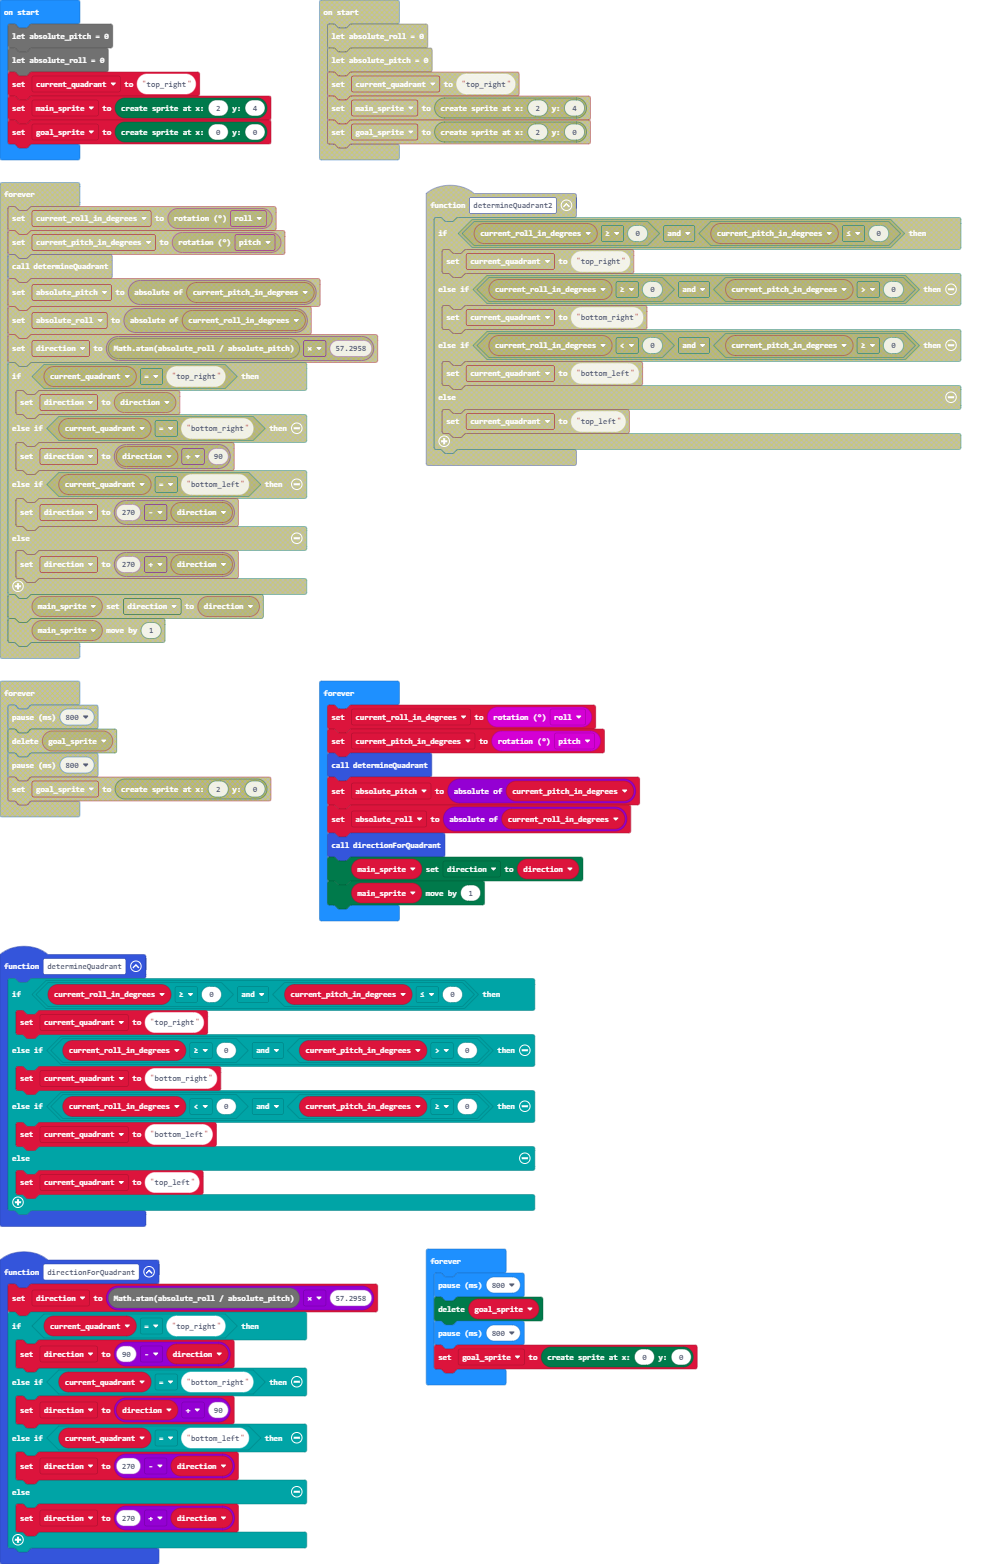
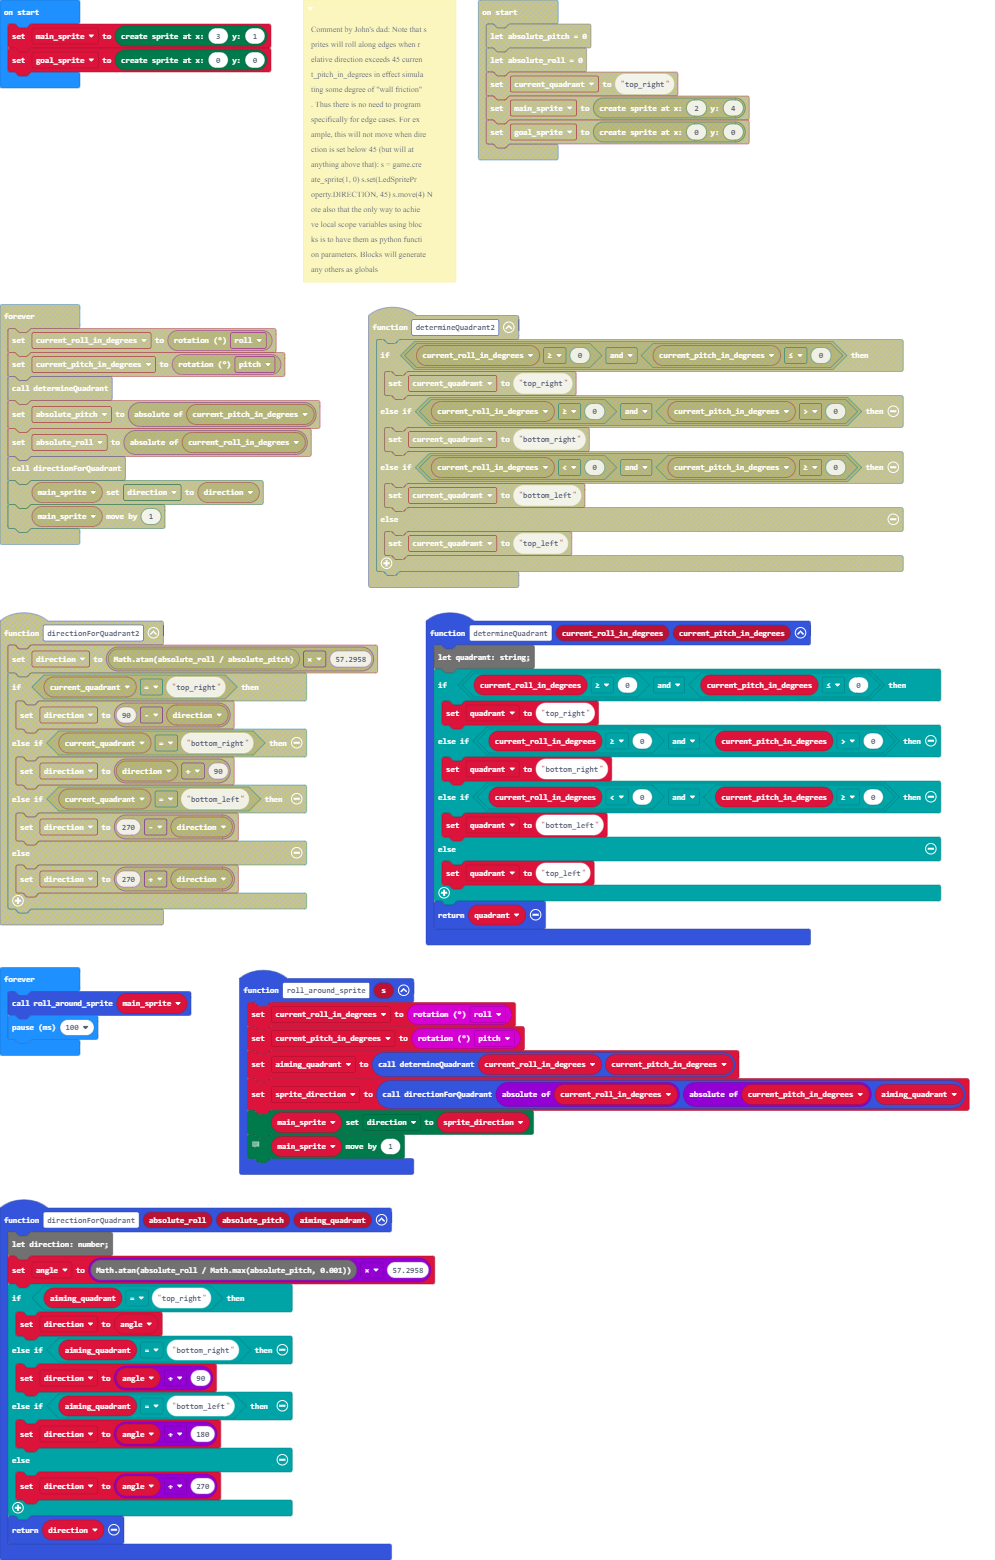
Completed roll functionality (without speed variation)

diff --git a/main.ts b/main.ts
@@ -1,54 +1,65 @@
-function determineQuadrant() {
-    
-    if (current_roll_in_degrees >= 0 && current_pitch_in_degrees <= 0) {
-        current_quadrant = "top_right"
+function determineQuadrant (current_roll_in_degrees: number, current_pitch_in_degrees: number) {
+    let quadrant: string;
+if (current_roll_in_degrees >= 0 && current_pitch_in_degrees <= 0) {
+        quadrant = "top_right"
     } else if (current_roll_in_degrees >= 0 && current_pitch_in_degrees > 0) {
-        current_quadrant = "bottom_right"
+        quadrant = "bottom_right"
     } else if (current_roll_in_degrees < 0 && current_pitch_in_degrees >= 0) {
-        current_quadrant = "bottom_left"
+        quadrant = "bottom_left"
     } else {
-        current_quadrant = "top_left"
+        quadrant = "top_left"
     }
-    
+    return quadrant
 }
-
-function directionForQuadrant() {
-    
-    direction = Math.atan(absolute_roll / absolute_pitch) * 57.2958
-    if (current_quadrant == "top_right") {
-        direction = 90 - direction
-    } else if (current_quadrant == "bottom_right") {
-        direction = direction + 90
-    } else if (current_quadrant == "bottom_left") {
-        direction = 270 - direction
-    } else {
-        direction = 270 + direction
-    }
-    
-}
-
-let direction = 0
-let current_pitch_in_degrees = 0
-let current_roll_in_degrees = 0
-let current_quadrant = ""
-let absolute_pitch = 0
-let absolute_roll = 0
-current_quadrant = "top_right"
-let main_sprite = game.createSprite(2, 4)
-let goal_sprite = game.createSprite(0, 0)
-basic.forever(function on_forever() {
-    
+function roll_around_sprite (s: game.LedSprite) {
     current_roll_in_degrees = input.rotation(Rotation.Roll)
     current_pitch_in_degrees = input.rotation(Rotation.Pitch)
-    determineQuadrant()
-    absolute_pitch = Math.abs(current_pitch_in_degrees)
-    absolute_roll = Math.abs(current_roll_in_degrees)
-    directionForQuadrant()
-    main_sprite.set(LedSpriteProperty.Direction, direction)
+    aiming_quadrant = determineQuadrant(current_roll_in_degrees, current_pitch_in_degrees)
+    sprite_direction = directionForQuadrant(Math.abs(current_roll_in_degrees), Math.abs(current_pitch_in_degrees), aiming_quadrant)
+    main_sprite.set(LedSpriteProperty.Direction, sprite_direction)
+    // basic.pause(100)
     main_sprite.move(1)
+}
+function directionForQuadrant (absolute_roll: number, absolute_pitch: number, aiming_quadrant: string) {
+    let direction: number;
+angle = Math.atan(absolute_roll / Math.max(absolute_pitch, 0.001)) * 57.2958
+    if (aiming_quadrant == "top_right") {
+        direction = angle
+    } else if (aiming_quadrant == "bottom_right") {
+        direction = angle + 90
+    } else if (aiming_quadrant == "bottom_left") {
+        direction = angle + 180
+    } else {
+        direction = angle + 270
+    }
+    return direction
+}
+let angle = 0
+let sprite_direction = 0
+let aiming_quadrant = ""
+let current_pitch_in_degrees = 0
+let current_roll_in_degrees = 0
+let main_sprite: game.LedSprite = null
+main_sprite = game.createSprite(3, 1)
+let goal_sprite = game.createSprite(0, 0)
+basic.forever(function () {
+    roll_around_sprite(main_sprite)
+    basic.pause(100)
 })
-basic.forever(function on_forever2() {
-    
+/**
+ * Comment by John's dad:
+ * 
+ * Note that sprites will roll along edges when relative direction exceeds 45 current_pitch_in_degrees in effect simulating some degree of "wall friction". Thus there is no need to program specifically for edge cases. For example, this will not move when direction is set below 45 (but will at anything above that):
+ * 
+ * s = game.create_sprite(1, 0)
+ * 
+ * s.set(LedSpriteProperty.DIRECTION, 45)
+ * 
+ * s.move(4)
+ * 
+ * Note also that the only way to achieve local scope variables using blocks is to have them as python function parameters. Blocks will generate any others as globals
+ */
+basic.forever(function () {
     basic.pause(800)
     goal_sprite.delete()
     basic.pause(800)

diff --git a/main.py b/main.py
@@ -1,50 +1,69 @@
-def determineQuadrant():
-    global current_quadrant
+def determineQuadrant(current_roll_in_degrees: number, current_pitch_in_degrees: number):
     if current_roll_in_degrees >= 0 and current_pitch_in_degrees <= 0:
-        current_quadrant = "top_right"
+        quadrant = "top_right"
     elif current_roll_in_degrees >= 0 and current_pitch_in_degrees > 0:
-        current_quadrant = "bottom_right"
+        quadrant = "bottom_right"
     elif current_roll_in_degrees < 0 and current_pitch_in_degrees >= 0:
-        current_quadrant = "bottom_left"
+        quadrant = "bottom_left"
     else:
-        current_quadrant = "top_left"
-def directionForQuadrant():
-    global direction
-    direction = Math.atan(absolute_roll / absolute_pitch) * 57.2958
-    if current_quadrant == "top_right":
-        direction = 90 - direction
-    elif current_quadrant == "bottom_right":
-        direction = direction + 90
-    elif current_quadrant == "bottom_left":
-        direction = 270 - direction
+        quadrant = "top_left"
+    return quadrant
+def roll_around_sprite(s: game.LedSprite):
+    global current_roll_in_degrees, current_pitch_in_degrees, aiming_quadrant, sprite_direction
+    current_roll_in_degrees = input.rotation(Rotation.ROLL)
+    current_pitch_in_degrees = input.rotation(Rotation.PITCH)
+    aiming_quadrant = determineQuadrant(current_roll_in_degrees, current_pitch_in_degrees)
+    sprite_direction = directionForQuadrant(abs(current_roll_in_degrees),
+        abs(current_pitch_in_degrees),
+        aiming_quadrant)
+    main_sprite.set(LedSpriteProperty.DIRECTION, sprite_direction)
+    # basic.pause(100)
+    main_sprite.move(1)
+def directionForQuadrant(absolute_roll: number, absolute_pitch: number, aiming_quadrant: str):
+    global angle
+    angle = Math.atan(absolute_roll / max(absolute_pitch, 0.001)) * 57.2958
+    if aiming_quadrant == "top_right":
+        direction = angle
+    elif aiming_quadrant == "bottom_right":
+        direction = angle + 90
+    elif aiming_quadrant == "bottom_left":
+        direction = angle + 180
     else:
-        direction = 270 + direction
-direction = 0
+        direction = angle + 270
+    return direction
+"""
+
+Comment by John's dad:
+
+Note that sprites will roll along edges when relative direction exceeds 45 current_pitch_in_degrees in effect simulating some degree of "wall friction". Thus there is no need to program specifically for edge cases. For example, this will not move when direction is set below 45 (but will at anything above that):
+
+s = game.create_sprite(1, 0)
+
+s.set(LedSpriteProperty.DIRECTION, 45)
+
+s.move(4)
+
+Note also that the only way to achieve local scope variables using blocks is to have them as python function parameters. Blocks will generate any others as globals
+
+"""
+angle = 0
+sprite_direction = 0
+aiming_quadrant = ""
 current_pitch_in_degrees = 0
 current_roll_in_degrees = 0
-current_quadrant = ""
-absolute_pitch = 0
-absolute_roll = 0
-current_quadrant = "top_right"
-main_sprite = game.create_sprite(2, 4)
+main_sprite: game.LedSprite = None
+main_sprite = game.create_sprite(3, 1)
 goal_sprite = game.create_sprite(0, 0)
 
 def on_forever():
-    global current_roll_in_degrees, current_pitch_in_degrees, absolute_pitch, absolute_roll
-    current_roll_in_degrees = input.rotation(Rotation.ROLL)
-    current_pitch_in_degrees = input.rotation(Rotation.PITCH)
-    determineQuadrant()
-    absolute_pitch = abs(current_pitch_in_degrees)
-    absolute_roll = abs(current_roll_in_degrees)
-    directionForQuadrant()
-    main_sprite.set(LedSpriteProperty.DIRECTION, direction)
-    main_sprite.move(1)
-basic.forever(on_forever)
-
-def on_forever2():
     global goal_sprite
     basic.pause(800)
     goal_sprite.delete()
     basic.pause(800)
     goal_sprite = game.create_sprite(0, 0)
+basic.forever(on_forever)
+
+def on_forever2():
+    roll_around_sprite(main_sprite)
+    basic.pause(100)
 basic.forever(on_forever2)
